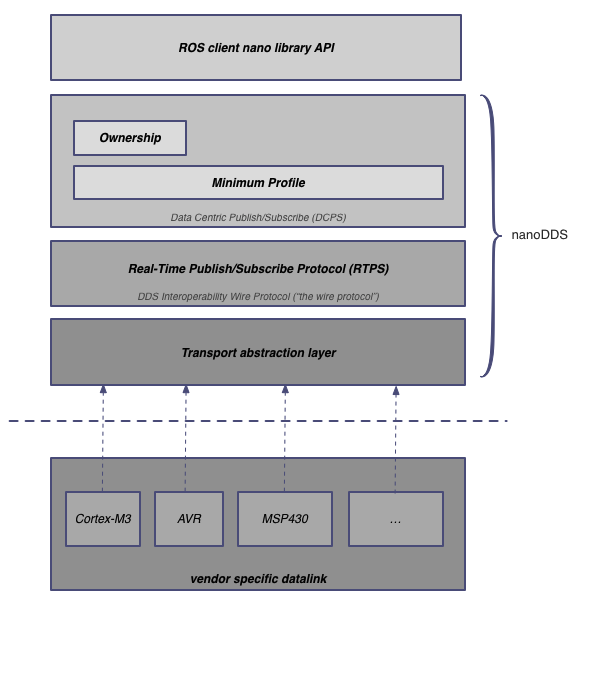
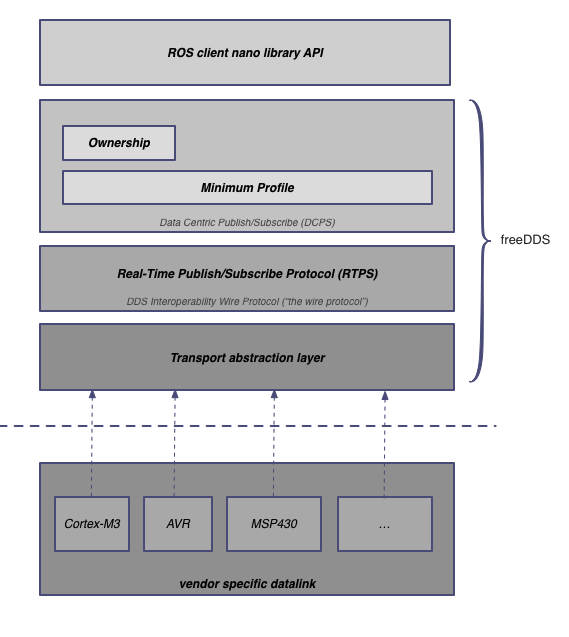
Update to freeDDS

diff --git a/README.md b/README.md
@@ -1,10 +1,10 @@
-nanoDDS
+freeDDS
 ===============
 
-[nanoDDS](https://github.com/vmayoral/nanoDDS) is an _Open Source_ Data Distribution Service (DDS) for embedded devices implemented _from scratch_ to provide an open alternative in the embedded world for ROS 2, the next generation of the Robot Operative System framework.
-Refer to [this repository](https://github.com/vmayoral/nanoDDS) for the code.
+[freeDDS](https://github.com/vmayoral/freeDDS) is an _Open Source_ Data Distribution Service (DDS) for embedded devices implemented _from scratch_ to provide an open alternative in the embedded world for ROS 2, the next generation of the Robot Operative System framework.
+Refer to [this repository](https://github.com/vmayoral/freeDDS) for the code.
 
-[Chapter 1: Background](background/README.md) provides a background research and comparison betweem different embedded DDSs. [Chapter 2: DDS](dds/README.md) will describe and document the implementation of nanoDDS. [Chapter 3: Using nanoDDS](using_nanodds/README.md) will show how to use nanoDDS through a set of tutorials and examples.
+[Chapter 1: Background](background/README.md) provides a background research and comparison betweem different embedded DDSs. [Chapter 2: DDS](dds/README.md) will describe and document the implementation of freeDDS. [Chapter 3: Using freeDDS](using_nanodds/README.md) will show how to use freeDDS through a set of tutorials and examples.
 
 This work has been performed at the [Open Source Robotics Foundation, Inc.](http://osrfoundation.org/).
 

diff --git a/dds/architecture.md b/dds/architecture.md
@@ -1,11 +1,11 @@
 # Architecture
 
-### nanoDDS Architecture
+### freeDDS Architecture
 
-Put a picture of nano DDS with comments informing what exactly should each layer implement
+Put a picture of freeDDS with comments informing what exactly should each layer implement
 
 ###DDS - OSI comparison
-Let's see how the layers proposed for our embedded DDS, nanoDDS, match with the OSI architecture:
+Let's see how the layers proposed for our embedded DDS, freeDDS, match with the OSI architecture:
 
 ![](../img/ros_on_dds_diagrams_osi.png)
 

diff --git a/ros2.md b/ros2.md
@@ -38,7 +38,7 @@ requirements for the information access.
 >
 >Taken from OpenSplice DDS Version 6.x C Tutorial Guide
 
-### ROS 2 and nanoDDS
+### ROS 2 and freeDDS
 
 The previous architecture is intractable for embedded systems where resources are limited thereby a new approach for this kind of devices should be designed. The architecture should contain the RTPS protocol (_the wire protocol_) and also at least the _Minimum_ and _Ownership_ profiles from the _Data Centric Publish/Subscribe Layer_.
 

diff --git a/dds/README.md b/dds/README.md
@@ -1,6 +1,6 @@
 # Data Distribution Service (DDS)
 
-This chapter will document the implementation of nanoDDS.
+This chapter will document the implementation of freeDDS.
 
 
 ![](http://osrfoundation.org/assets/images/osrf_masthead.png)

diff --git a/SUMMARY.md b/SUMMARY.md
@@ -8,5 +8,5 @@
    * [Open Source](background/open_source.md)
 * [DDS](dds/README.md)
    * [Architecture](dds/architecture.md)
-* [Using nanoDDS](using_nanodds/README.md)
+* [Using freeDDS](using_nanodds/README.md)
 
